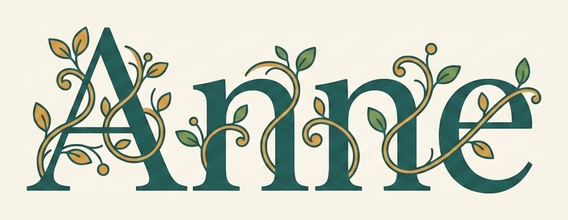
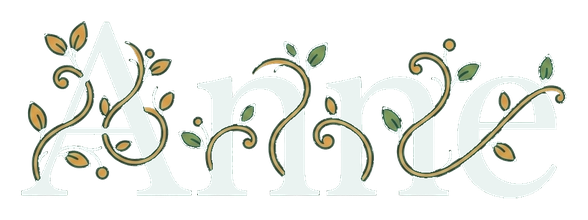
Cream wordmark flush on header, no chip; letters match tagline, vines kept

diff --git a/src/App.tsx b/src/App.tsx
@@ -34,7 +34,7 @@ export default function App() {
 
       <main className="relative w-full max-w-4xl rounded-[2rem] border border-white/10 bg-card/85 backdrop-blur-xl shadow-2xl shadow-black/40 overflow-hidden">
         <div className="flex items-center gap-3 px-5 py-2.5 text-[#EAF3F1]" style={{ background: "linear-gradient(180deg,#0E3A38,#0A4B49)" }}>
-          <span className="inline-flex items-center rounded-lg px-2.5 py-1" style={{ background: "#F7F3E7" }}><img src="/anne-wordmark.png" alt="Anne" className="h-6 w-auto block" /></span>
+          <img src="/anne-wordmark.png" alt="Anne" className="h-7 w-auto block" />
           <span className="font-heading text-sm text-white/85">A Zendesk operator</span>
           {screen !== "connect" && (
             <button onClick={() => { setConn(null); setData(null); setScreen("connect"); }} className="ml-auto inline-flex items-center gap-1.5 font-mono text-[11px] text-white/70 hover:text-white transition" title="Exit to the start">